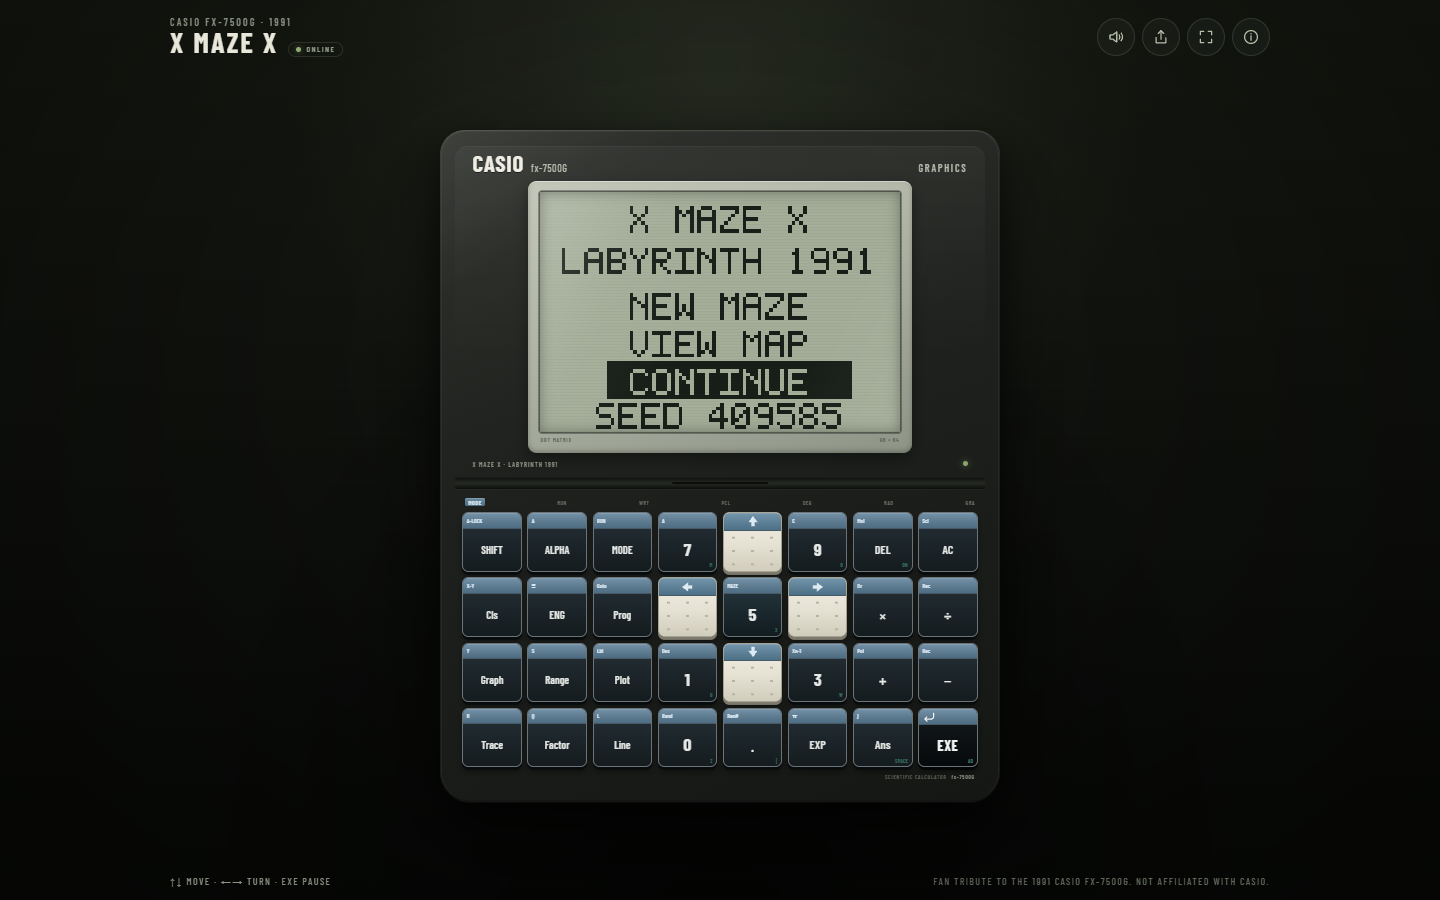
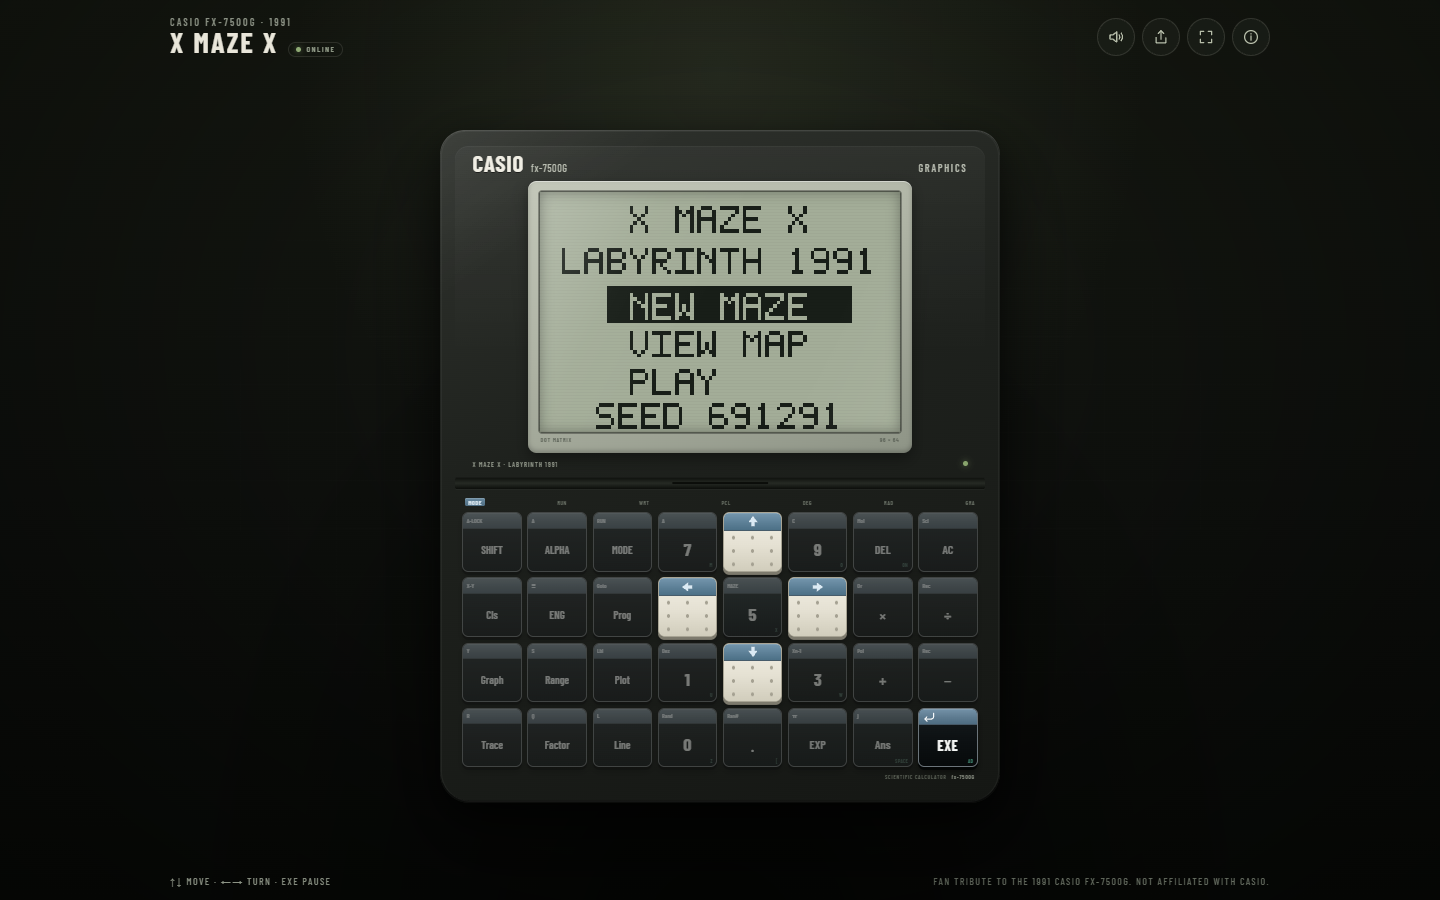
Fade the inactive keypad keys

diff --git a/src/ui/calculator.css b/src/ui/calculator.css
@@ -376,6 +376,8 @@
     0 0.52cqw 0 #090c0d,
     0 0.8cqw 1.2cqw rgba(0, 0, 0, 0.35),
     inset 0 0.15cqw 0 rgba(255, 255, 255, 0.07);
+  opacity: 0.46;
+  filter: saturate(0.45);
 }
 
 .key--num .key__legend {
